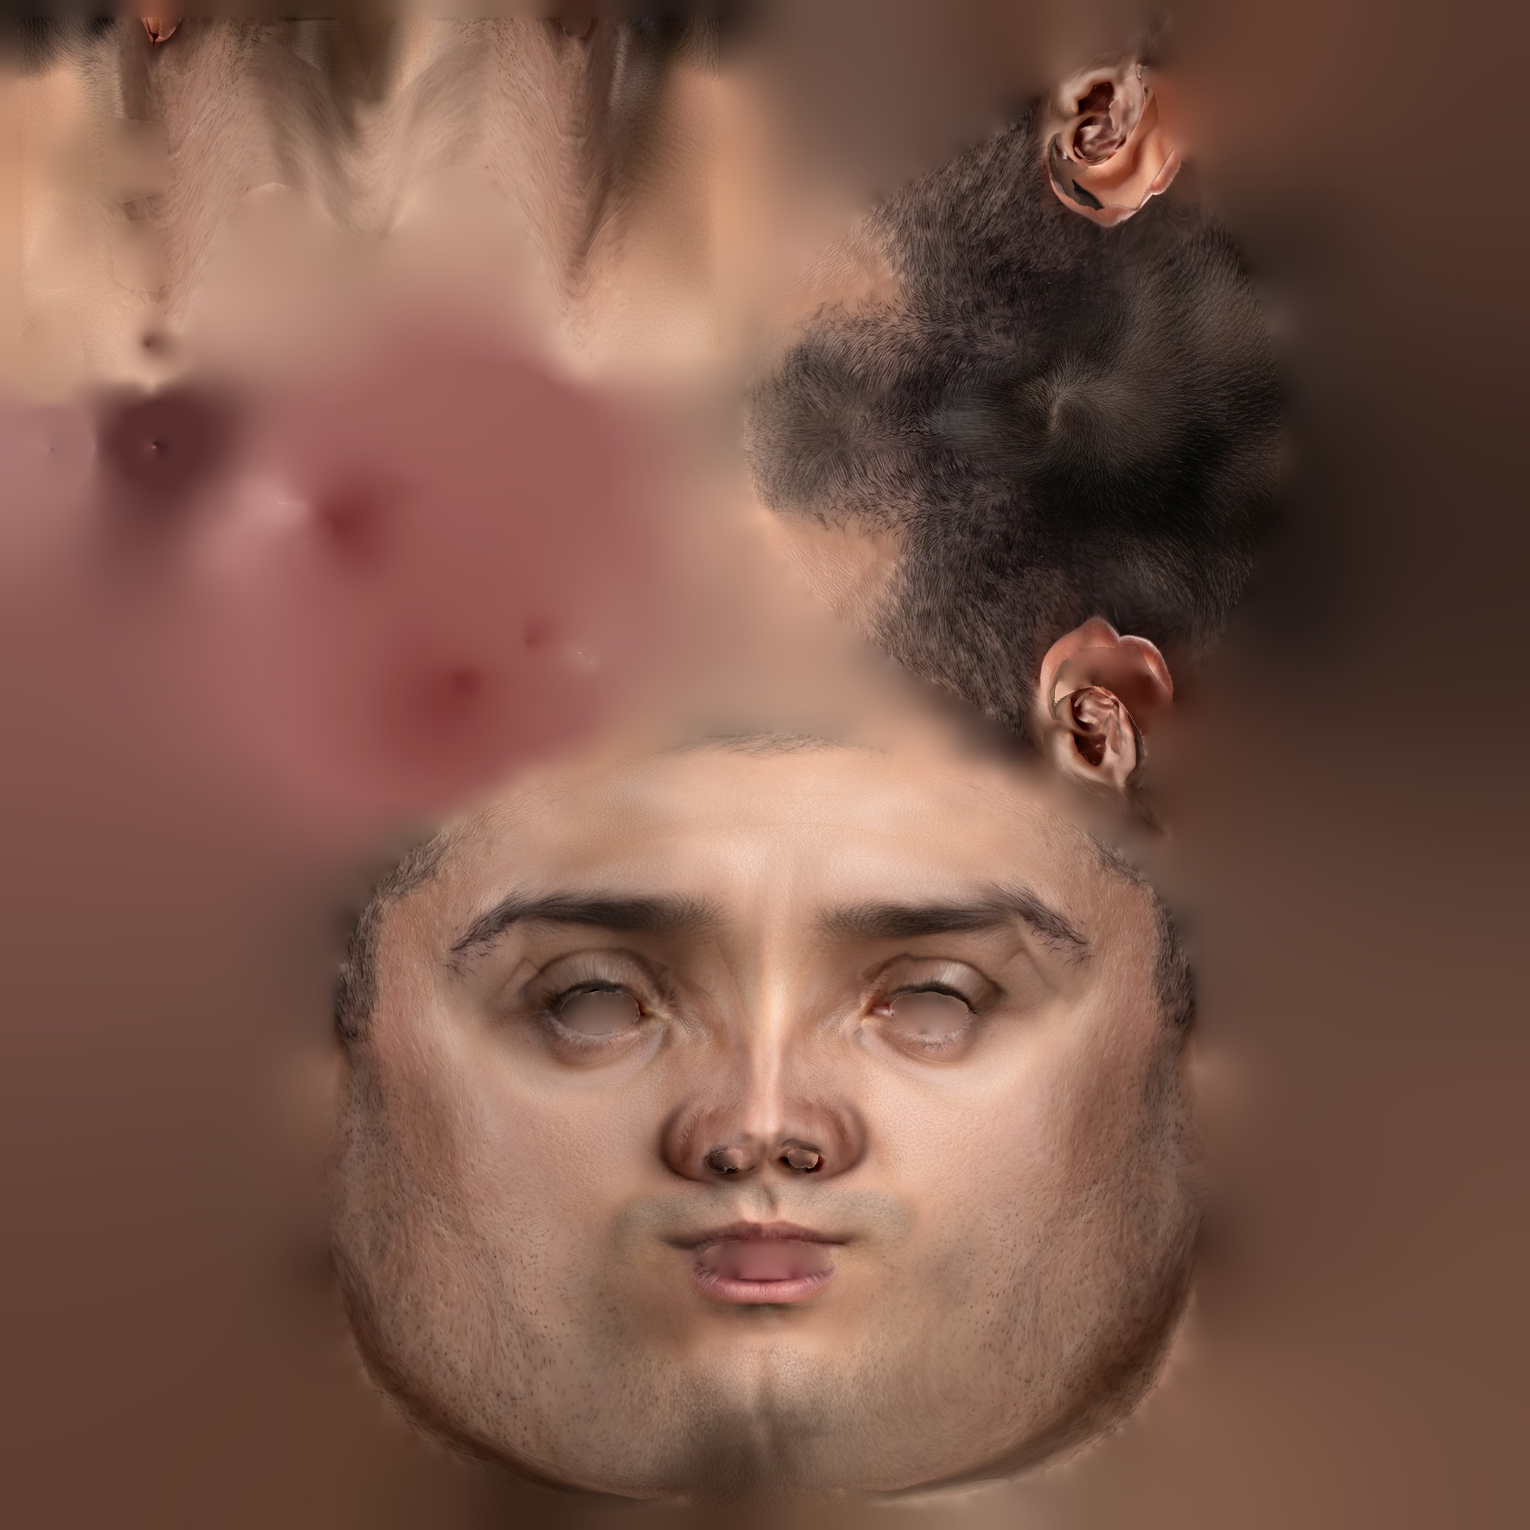
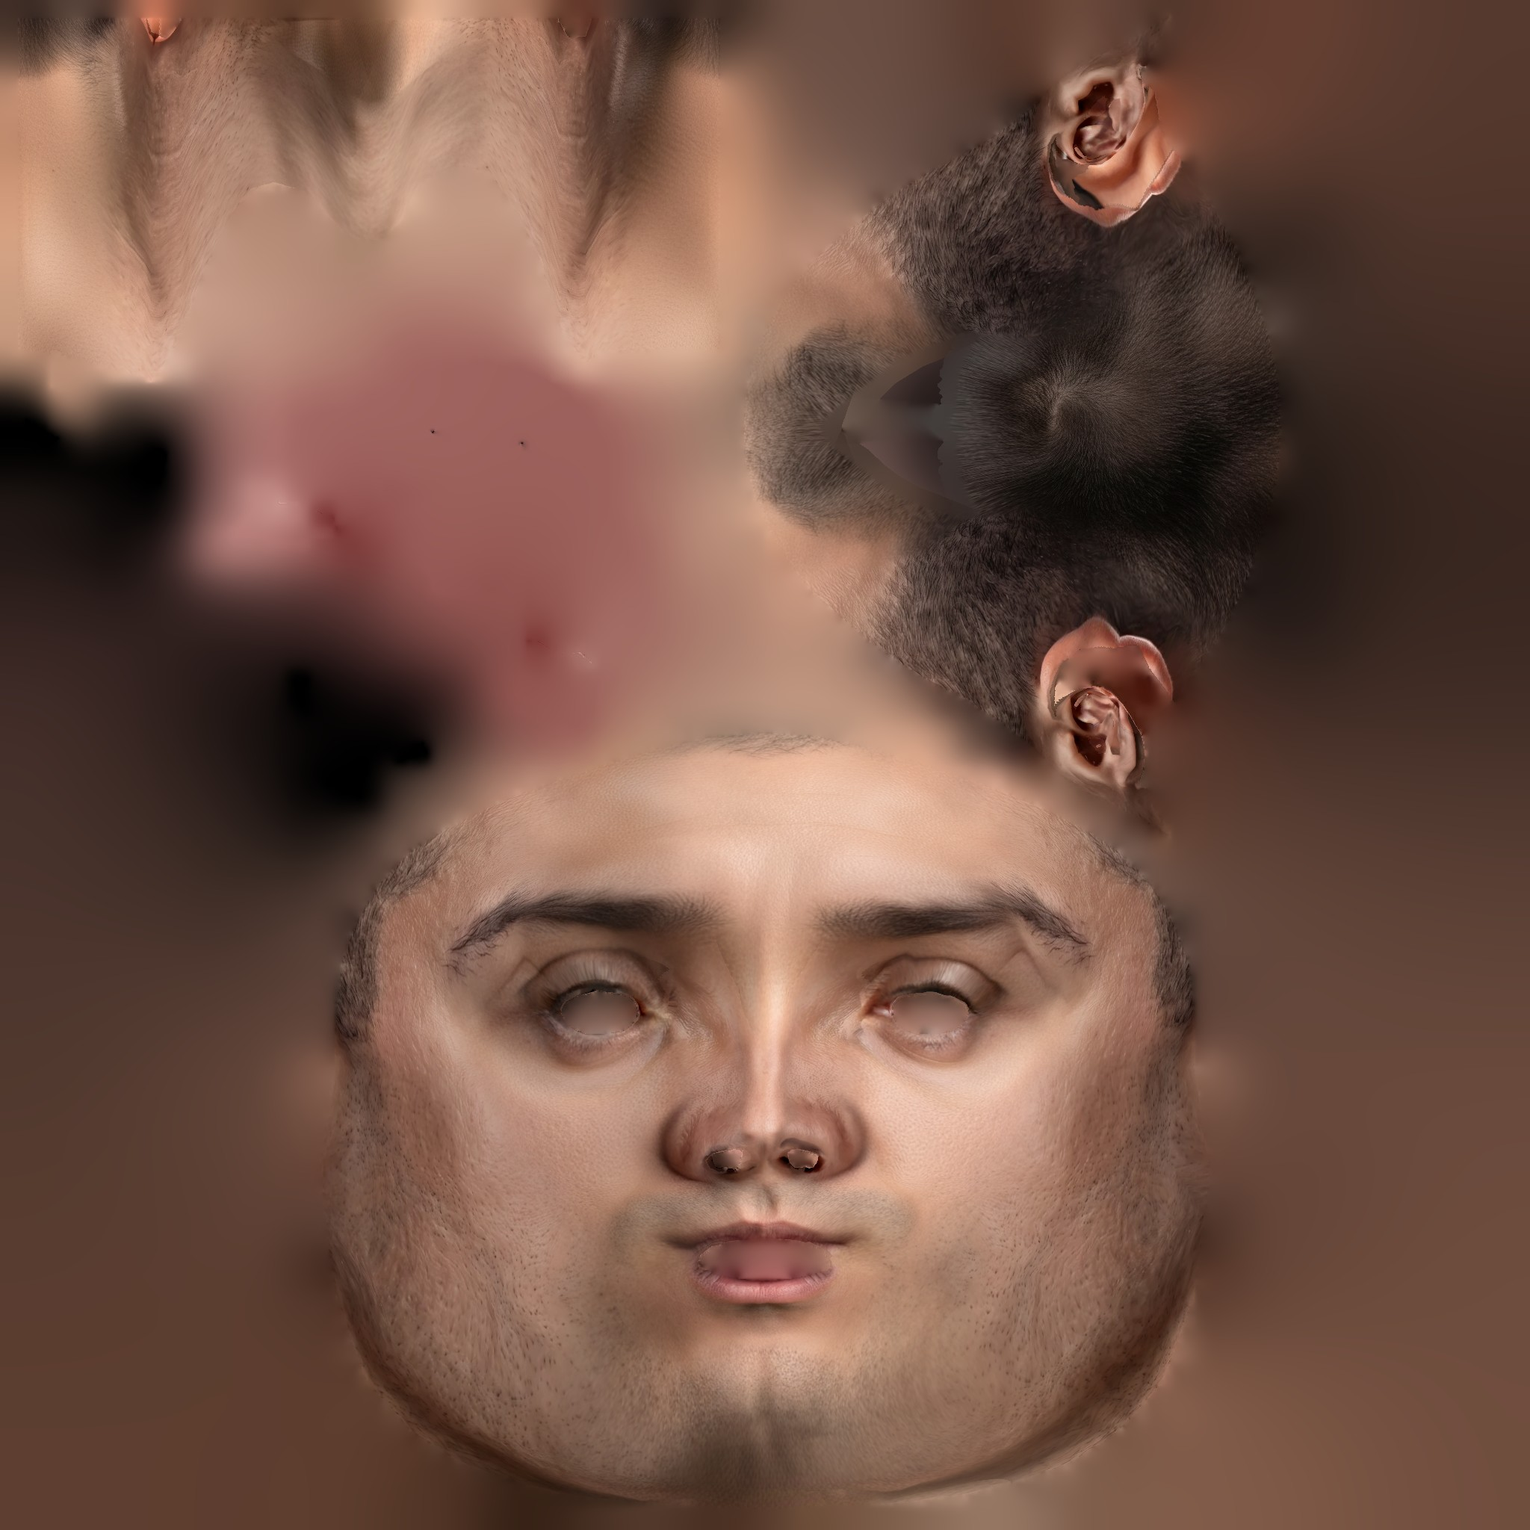
3D head: tongue in the mouth, consistent hair, rebaked skin (unfinished follow-up: three-quarter mouth interior still rough)

diff --git a/src/ui/components/Tract3DView.tsx b/src/ui/components/Tract3DView.tsx
@@ -102,13 +102,13 @@ const PLATE_VS = 'varying vec2 vUv; void main() { vUv = uv; gl_Position = projec
 const PLATE_FS = 'uniform sampler2D map; uniform float uOpacity; varying vec2 vUv; void main() { gl_FragColor = texture2D(map, vUv) * uOpacity; }';
 
 const SHADE_VS = `
-attribute vec3 tone; attribute vec3 field; attribute float lat;
+attribute vec3 tone; attribute vec3 field; attribute float lat; attribute float front;
 uniform float uField;
-varying vec3 vCol; varying vec3 vN; varying vec3 vV; varying vec3 vP; varying float vLat;
+varying vec3 vCol; varying vec3 vN; varying vec3 vV; varying vec3 vP; varying float vLat; varying float vFront;
 void main() {
   vCol = mix(tone, field, uField);
   vec4 mv = modelViewMatrix * vec4(position, 1.0);
-  vN = normalMatrix * normal; vV = -mv.xyz; vP = position; vLat = lat;
+  vN = normalMatrix * normal; vV = -mv.xyz; vP = position; vLat = lat; vFront = front;
   gl_Position = projectionMatrix * mv;
 }`;
 /**
@@ -118,7 +118,7 @@ void main() {
  */
 const WALL_FS = `
 uniform float uDepth; uniform float uField; uniform vec4 uMouth;
-varying vec3 vCol; varying vec3 vN; varying vec3 vV; varying vec3 vP; varying float vLat;
+varying vec3 vCol; varying vec3 vN; varying vec3 vV; varying vec3 vP; varying float vLat; varying float vFront;
 float hash(vec3 p) { p = fract(p * 0.3183099 + 0.1); p *= 17.0; return fract(p.x * p.y * p.z * (p.x + p.y + p.z)); }
 float noise(vec3 x) {
   vec3 i = floor(x), f = fract(x); f = f * f * (3.0 - 2.0 * f);
@@ -126,8 +126,9 @@ float noise(vec3 x) {
              mix(mix(hash(i + vec3(0, 0, 1)), hash(i + vec3(1, 0, 1)), f.x), mix(hash(i + vec3(0, 1, 1)), hash(i + vec3(1, 1, 1)), f.x), f.y), f.z);
 }
 void main() {
-  // (in a whole head its own lips and teeth are the front of the mouth: the airway's walls begin behind the teeth)
-  if (uMouth.z > 0.5 && vP.x > uMouth.w) discard;
+  // (in a whole head its own lips and teeth are the front of the mouth: the airway's walls of the lips and the
+  // incisors are not drawn, nor anything in front of its teeth; the tongue and the palate are)
+  if (uMouth.z > 0.5 && (vFront > 0.5 || vP.x > uMouth.w)) discard;
   vec3 n = normalize(vN), v = normalize(vV);
   if (dot(n, v) < 0.0) n = -n;
   float depth = clamp(-vP.z / uDepth, 0.0, 1.0);
@@ -138,8 +139,9 @@ void main() {
   // the light comes in by the cut: what lies deep in the hollow is in the dark
   float shade = mix(1.0, mix(0.13, 0.55, uField), pow(depth, 0.7));
   // (in a whole head it comes in by the mouth only: dark a little way behind the front teeth)
+  // (the tongue's front and the palate behind the teeth catch the light; the throat is dark)
   float behind = clamp((uMouth.x - vP.x) / uMouth.y, 0.0, 1.0);
-  shade = mix(shade, mix(1.0, mix(0.035, 0.4, uField), pow(behind, 0.55)), uMouth.z);
+  shade = mix(shade, mix(1.0, mix(0.03, 0.4, uField), pow(behind, 1.15)), uMouth.z);
   vec3 c = base * wrap * shade;
   // flesh in shadow stays red, never grey
   c += vec3(0.07, 0.01, 0.012) * (1.0 - wrap) * (1.0 - uField) * shade;
@@ -233,13 +235,14 @@ void main() {
   vec3 n = normalize(vN), v = normalize(vV);
   if (dot(n, v) < 0.0) n = -n;
   vec3 L = ${LIGHT};
-  vec3 col = mix(vec3(0.74, 0.73, 0.7), vec3(0.87, 0.83, 0.74), smoothstep(0.04, 0.4, vCrown));
-  col = mix(col, vec3(0.8, 0.7, 0.58), smoothstep(0.62, 1.0, vCrown));
-  float wrap = 0.42 + 0.58 * max(dot(n, L), 0.0);
+  vec3 col = mix(vec3(0.7, 0.7, 0.69), vec3(0.85, 0.8, 0.7), smoothstep(0.04, 0.38, vCrown));
+  col = mix(col, vec3(0.76, 0.66, 0.54), smoothstep(0.6, 1.0, vCrown));
+  float wrap = 0.38 + 0.62 * max(dot(n, L), 0.0);
   float behind = mix(clamp((uFront.x - vP.x) / uFront.y, 0.0, 1.0), 0.55 * clamp(-vP.z / uDepth, 0.0, 1.0), uCut);
-  float shade = mix(1.0, 0.05, pow(behind, 0.85)) * mix(1.0, 0.5, smoothstep(0.5, 1.0, vCrown));
-  vec3 c = col * wrap * shade + vec3(0.03, 0.008, 0.006) * (1.0 - behind);
-  float spec = pow(max(dot(n, normalize(L + v)), 0.0), 70.0) * 0.32 * (1.0 - behind) * (1.0 - vCrown);
+  // (the canines are in the corners' half light, the teeth behind them in the cheeks' dark)
+  float shade = mix(1.0, 0.025, pow(smoothstep(0.0, 0.8, behind), 0.75)) * mix(1.0, 0.45, smoothstep(0.5, 1.0, vCrown));
+  vec3 c = col * wrap * shade + vec3(0.03, 0.008, 0.006) * (1.0 - smoothstep(0.0, 0.5, behind));
+  float spec = pow(max(dot(n, normalize(L + v)), 0.0), 70.0) * 0.32 * (1.0 - smoothstep(0.08, 0.35, behind)) * (1.0 - vCrown);
   gl_FragColor = vec4(c + vec3(spec), 1.0);
 }`;
 
@@ -259,7 +262,7 @@ void main() {
  */
 const HEAD_FS = `
 uniform float uCut; uniform float uGhost;
-uniform vec3 uFlesh; uniform vec4 uEyeL; uniform vec4 uEyeR; uniform vec3 uIris; uniform mat3 normalMatrix;
+uniform vec3 uFlesh; uniform vec4 uEyeL; uniform vec4 uEyeR; uniform vec3 uIris; uniform vec3 uLook; uniform mat3 normalMatrix;
 uniform sampler2D mapScan;
 varying vec3 vN; varying vec3 vV; varying vec3 vC; varying vec3 vF; varying float vKind; varying vec2 vUv;
 void main() {
@@ -275,7 +278,8 @@ void main() {
     // through the mouth only: in its dark); behind the lips, the back of their inner side: mucosa
     float deep = clamp(-vC.z / 6.0, 0.0, 1.0);
     vec3 inside = uFlesh * mix(mix(0.55, 0.16, deep), 0.09, 1.0 - uCut);
-    gl_FragColor = vec4(mix(inside, vec3(0.5, 0.22, 0.21) * wetShade, mouth), 1.0);
+    vec3 wall = mix(vec3(0.15, 0.05, 0.045) * (1.0 - 0.6 * further), vec3(0.42, 0.17, 0.16) * wetShade * mix(1.0, 0.55, further), uCut);
+    gl_FragColor = vec4(mix(inside, wall, mouth), 1.0);
     return;
   }
   vec3 base = texture2D(mapScan, vUv).rgb;
@@ -291,7 +295,14 @@ void main() {
   if (eye > 0.5) {
     vec4 E = vC.z < 0.0 ? uEyeL : uEyeR;
     vec3 e = normalize(vC - E.xyz);
-    vec3 look = normalize(vec3(1.0, -0.09, 0.04 * sign(-vC.z)));
+    // (a man looks at who looks at him: the eyes turn toward the eye of the view, part of the way, sideways no more
+    // than about 26 degrees and up or down a little, and only while it is in front of the face; at rest they look
+    // ahead, a little down and in)
+    vec3 toEye = normalize(uLook - E.xyz);
+    float facing = smoothstep(-0.25, 0.35, toEye.x);
+    float yaw = 0.04 * sign(-vC.z) + clamp(0.55 * atan(toEye.z, toEye.x), -0.45, 0.45) * facing;
+    float pitch = -0.09 + clamp(0.3 * asin(clamp(toEye.y, -1.0, 1.0)), -0.1, 0.1) * facing;
+    vec3 look = normalize(vec3(cos(pitch) * cos(yaw), sin(pitch), cos(pitch) * sin(yaw)));
     float th = acos(clamp(dot(e, look), -1.0, 1.0));
     vec3 a1 = normalize(cross(look, vec3(0.0, 1.0, 0.0))), a2 = cross(a1, look);
     float ang = atan(dot(e, a2), dot(e, a1));
@@ -406,12 +417,12 @@ export default function Tract3DView() {
     for (let j = RING_SIDE - 1; j >= mid; j--) near.push(ringN - 1 - j);
     const count = rays * ringN;
     const posAttr = new THREE.BufferAttribute(meshes.air.positions, 3);
-    const toneCol = new Float32Array(count * 3), fieldCol = new Float32Array(count * 3), lat = new Float32Array(count);
+    const toneCol = new Float32Array(count * 3), fieldCol = new Float32Array(count * 3), lat = new Float32Array(count), frontOf = new Float32Array(count);
     for (let i = 0; i < rays; i++) for (let j = 0; j < RING_SIDE; j++) {
       const a = Math.abs(Math.sin((Math.PI / 2) * (-1 + (2 * j) / (RING_SIDE - 1))));
       lat[i * ringN + j] = a; lat[i * ringN + ringN - 1 - j] = a;
     }
-    const toneAttr = new THREE.BufferAttribute(toneCol, 3), fieldAttr = new THREE.BufferAttribute(fieldCol, 3), latAttr = new THREE.BufferAttribute(lat, 1);
+    const toneAttr = new THREE.BufferAttribute(toneCol, 3), fieldAttr = new THREE.BufferAttribute(fieldCol, 3), latAttr = new THREE.BufferAttribute(lat, 1), frontAttr = new THREE.BufferAttribute(frontOf, 1);
     // (the whole ring gives every point its normal; the two halves share them)
     const ringGeo = new THREE.BufferGeometry();
     ringGeo.setAttribute('position', posAttr);
@@ -424,6 +435,7 @@ export default function Tract3DView() {
       g.setAttribute('tone', toneAttr);
       g.setAttribute('field', fieldAttr);
       g.setAttribute('lat', latAttr);
+      g.setAttribute('front', frontAttr);
       g.setIndex(halfIndex(order));
       return g;
     };
@@ -510,7 +522,7 @@ export default function Tract3DView() {
     const headUniforms = {
       uCut: { value: 1 }, uGhost: { value: 1 },
       // the eyes as balls (middle, how far the front stands from it), and the colour of the iris (the photographs': a dark brown)
-      uEyeL: { value: new THREE.Vector4(4.36, 16.61, -3.15, 2.46) }, uEyeR: { value: new THREE.Vector4(4.52, 16.85, 3.16, 2.44) }, uIris: { value: new THREE.Vector3(0.17, 0.098, 0.058) },
+      uEyeL: { value: new THREE.Vector4(4.36, 16.61, -3.15, 2.46) }, uEyeR: { value: new THREE.Vector4(4.52, 16.85, 3.16, 2.44) }, uIris: { value: new THREE.Vector3(0.17, 0.098, 0.058) }, uLook: { value: new THREE.Vector3(60, 15, 0) },
       uFlesh: { value: new THREE.Vector3(0.47, 0.15, 0.16) }, mapScan: { value: blank as THREE.Texture },
     };
     const headMat = new THREE.ShaderMaterial({ uniforms: headUniforms, vertexShader: HEAD_VS, fragmentShader: HEAD_FS, side: THREE.DoubleSide });
@@ -678,9 +690,9 @@ export default function Tract3DView() {
         (teethMesh.geometry.attributes.position as THREE.BufferAttribute).needsUpdate = true;
         teethMesh.geometry.computeVertexNormals();
         const fx = sc.place(head.teeth.front, 8.5, 0)[0];
-        teethUniforms.uFront.value.set(fx, 3.4 * sc.s);
+        teethUniforms.uFront.value.set(fx, 2.6 * sc.s);
         // (the mouth is dark from the head's own front teeth back, and the airway's walls begin behind them)
-        wallUniforms.uMouth.value.x = fx; wallUniforms.uMouth.value.w = fx - 0.9 * sc.s;
+        wallUniforms.uMouth.value.x = fx; wallUniforms.uMouth.value.w = fx + 0.1 * sc.s;
       }
       if (head) {
         placeHead(head, sc, headPos, lips ? lipMove(sc, lips) : undefined);
@@ -706,18 +718,23 @@ export default function Tract3DView() {
       ringGeo.computeVertexNormals();
       sc = headScene(g, p.anatomy, p.articulators);
       wallUniforms.uDepth.value = 2.3 * g.scale;
-      wallUniforms.uMouth.value.y = 2.8 * g.scale;
+      wallUniforms.uMouth.value.y = 3.8 * g.scale;
       if (!head?.teeth) { wallUniforms.uMouth.value.x = g.landmarks.upperEdge[0] + 0.15 * g.scale; wallUniforms.uMouth.value.w = 1e3; }
       // every wall in the colour of what it is, the two running into one another where they meet at the side
       for (let i = 0; i < rays; i++) {
         const h = g.hits[Math.min(i, g.lastRay)];
         const up = tones[h.upId ?? 'none'], low = tones[h.lowId ?? 'none'];
+        // (the walls that are the lips and the incisors: a whole head has its own)
+        const lipOrTooth = (id: SolidId | undefined | null) => id === 'upperLip' || id === 'lowerLip' || id === 'upperIncisor' || id === 'lowerIncisor';
+        const fu = lipOrTooth(h.upId) ? 1 : 0, fl = lipOrTooth(h.lowId) ? 1 : 0;
         for (let j = 0; j < ringN; j++) {
           const q = i * ringN + j, own = j < RING_SIDE ? up : low, other = j < RING_SIDE ? low : up, m = 0.5 * lat[q] * lat[q];
           for (let c = 0; c < 3; c++) toneCol[3 * q + c] = own[c] + (other[c] - own[c]) * m;
+          frontOf[q] = j < RING_SIDE ? fu : fl;
         }
       }
       toneAttr.needsUpdate = true;
+      frontAttr.needsUpdate = true;
       let n = 0;
       // (the teeth come arch by arch, from the middle back, a pair at each place: in a whole head the mouth
       // shows the front ones only, the incisors and the canines; those behind them are in the cheeks' dark)
@@ -863,6 +880,8 @@ export default function Tract3DView() {
       teeth.visible = !ownTeeth;
       for (const m of gums) m.visible = !ownTeeth;
       headUniforms.uCut.value = o.cut ? 1 : 0;
+      // (where the eye of the view is, in the head's own centimetres: the eyes look toward it)
+      headUniforms.uLook.value.copy(camera.position).multiplyScalar(1 / (sc?.s || 1));
       plate.visible = plate.visible && true;
       renderer.render(scene, camera);
       // labels, the later ones hidden where they would cover an earlier one or a control

diff --git a/src/ui/three/fullHead.ts b/src/ui/three/fullHead.ts
@@ -276,6 +276,8 @@ const INSIDE: [string, [number, number], [number, number], number][] = [
 const SIDE = 9.6;
 /** Where the lips meet at rest, and the corner of the mouth (the painting's cm). */
 const LIPS_MEET = 8.06, CORNER = 6.9;
+/** How far forward the lips stand at their middle (the painting's cm): where the lips meet, less a little. */
+const LIPS_FRONT = 8.6;
 /** The neck: where it is cut, where it becomes a plain column under the jaw, its half width, and how many rings it has from the scan's edge down. */
 const NECK_CUT = -3.45, NECK_TOP = 2.6, NECK_HALF = 5.7, RINGS_JOIN = 6, RINGS_NECK = 5;
 /** Where the neck's skin is in the scan's picture (u0, v0, u1, v1: a part of it the scan does not use; v down, as glTF has it). */
@@ -490,9 +492,20 @@ export function buildHead(scan: Scan, outline: ReturnType<typeof paintingOutline
     const q = warp(P[3 * i], P[3 * i + 1]);
     return q[0] < CORNER - 1.2 && q[1] > LIPS_MEET - 2.4 && q[1] < LIPS_MEET + 3.2 && Math.abs(P[3 * i + 2]) * SIDE < 3.4;
   };
+  // (and the lips' inner side more than a few millimetres behind their front: bent onto the painting it runs back
+  // into the mouth in long spikes, which seen through an open mouth would stand there like a row of teeth. The
+  // lips' front follows the curve of the mouth back to its corners)
+  const flange = (t: number) => {
+    const a = idx0[t], b = idx0[t + 1], c = idx0[t + 2];
+    if (a >= scan.skin || b >= scan.skin || c >= scan.skin) return false;
+    const qa = warp(P[3 * a], P[3 * a + 1]), qb = warp(P[3 * b], P[3 * b + 1]), qc = warp(P[3 * c], P[3 * c + 1]);
+    const x = (qa[0] + qb[0] + qc[0]) / 3, y = (qa[1] + qb[1] + qc[1]) / 3, z = ((P[3 * a + 2] + P[3 * b + 2] + P[3 * c + 2]) / 3) * SIDE;
+    if (Math.abs(z) > 3.1 || y < LIPS_MEET - 1.2 || y > LIPS_MEET + 1.5) return false;
+    return x < LIPS_FRONT - 0.25 * z * z - 0.75;
+  };
   const kept: number[] = [];
   for (let t = 0; t < idx0.length; t += 3) {
-    if (pocket(idx0[t]) || (deep(idx0[t]) && deep(idx0[t + 1]) && deep(idx0[t + 2]))) continue;
+    if (pocket(idx0[t]) || (deep(idx0[t]) && deep(idx0[t + 1]) && deep(idx0[t + 2])) || flange(t)) continue;
     kept.push(idx0[t], idx0[t + 1], idx0[t + 2]);
   }
 
@@ -735,11 +748,12 @@ function buildTeeth(src: NonNullable<Scan['teeth']>, warp: (x: number, y: number
     canon[3 * i] = q[0]; canon[3 * i + 1] = q[1]; canon[3 * i + 2] = z * SIDE;
     crown[i] = crown[m + i] = y1 > y0 ? (y - y0) / (y1 - y0) : 0;
     front = Math.max(front, q[0]);
-    // the lower crown under it, turned over onto the same edge: the front ones 2 mm over the upper edges and
-    // 2.5 mm behind them, the arch a little narrower there (the scan's units are 10 cm)
+    // the lower crown under it, turned over onto the same edge and a little shorter: inside the upper arch (the
+    // front ones 5 mm behind the upper edges, the arch narrower) and a little below it, behind the lower lip's
+    // inner side, which keeps them out of sight unless the mouth is well open (the scan's units are 10 cm)
     const a = ease((sx.get(r)! / nx.get(r)! - 0.42) / 0.08);
-    const ql = warp(x - 0.025 * a - 0.003, 2 * y0 - y + 0.02 * a);
-    canon[3 * (m + i)] = ql[0]; canon[3 * (m + i) + 1] = ql[1]; canon[3 * (m + i) + 2] = z * (1 - 0.05 * a) * SIDE;
+    const ql = warp(x - 0.035 * a - 0.015, y0 - 0.85 * (y - y0) - 0.006 - 0.004 * a);
+    canon[3 * (m + i)] = ql[0]; canon[3 * (m + i) + 1] = ql[1]; canon[3 * (m + i) + 2] = z * (0.92 - 0.04 * a) * SIDE;
     lower[m + i] = 1;
   }
   // (the lower row is a mirror image: its triangles turn the other way)

diff --git a/scripts/head3d-bake.py b/scripts/head3d-bake.py
@@ -473,6 +473,10 @@ def bake(mesh, views, S, log, debug=None):
             t = np.clip((N[..., 1] - a) / (b_ - a), 0, 1)
             w = w * t * t * (3 - 2 * t)
         # (or to what lies below a height: a view from below has the eyes looking up, and is kept to the chin)
+        # (or give way on the top of the head to the views that have hair there: the side photograph's hairline
+        # recedes further than the others', and the head's hair should be one all round)
+        if v.get('yield_top'):
+            w = w * (1 - v['yield_top'] * np.clip((N[..., 1] - 0.3) / 0.4, 0, 1))
         if v.get('max_y') is not None:
             w = w * np.clip((v['max_y'] - P[..., 1]) / 0.6, 0, 1)
         w[~cover] = 0
@@ -547,7 +551,38 @@ def borrow_detail(out, wmax, islands, cover, S, log, seen=0.22, size=None):
             log(f'  grain borrowed for {need.sum()} texels from ({x}, {y}), colour off by {best:.3f}')
     return res
 
-def finish(b, S, log=print):
+def match_seam(out, mesh, cover, islands, S, log, reach=0.06):
+    """The neck is grown from the scan's edge under the jaw, and has its own island in the texture: along that
+    edge the two islands meet, each with the colour its own photographs gave it. The neck's colour is brought to
+    the jaw's along the edge, less and less down the neck."""
+    lo = gauss_masked(out, cover.astype(np.float32), S / 150, islands)
+    uv, same = mesh.uv, mesh.same
+    neck = (uv[:, 0] < 0.475) & (uv[:, 1] < 0.26) & (mesh.kind < 0.5)
+    pairs = [(i, same[i]) for i in np.nonzero(neck & (uv[:, 1] < 0.0125 + 1e-4))[0] if same[i] != i and not neck[same[i]]]
+    if len(pairs) < 8:
+        return out
+    def at(p):
+        x, y = p[0] * S - 0.5, p[1] * S - 0.5
+        return cv2.getRectSubPix(lo.astype(np.float32), (1, 1), (float(x), float(y)))[0, 0]
+    us = np.array([uv[i, 0] for i, _ in pairs])
+    d = np.array([at(uv[r]) - at(uv[i]) for i, r in pairs])
+    o = np.argsort(us); us, d = us[o], d[o]
+    # (a little smoothing along the edge)
+    k = np.ones(5) / 5
+    d = np.stack([np.convolve(np.pad(d[:, c], 2, mode='edge'), k, mode='valid') for c in range(3)], -1)
+    ys, xs = np.nonzero(cover)
+    sel = (xs / S < 0.475) & (ys / S < 0.26)
+    ys, xs = ys[sel], xs[sel]
+    u, v = (xs + 0.5) / S, (ys + 0.5) / S
+    corr = np.stack([np.interp(u, us, d[:, c]) for c in range(3)], -1)
+    fall = np.clip(1 - (v - 0.0125) / reach, 0, 1) ** 1.5
+    out = out.copy()
+    out[ys, xs] += corr * fall[:, None]
+    log(f'  neck matched to the jaw along {len(pairs)} points (mean shift {np.abs(d).mean():.3f})')
+    return out
+
+
+def finish(b, S, log=print, mesh=None):
     """Fills what no photograph saw (from round it, in its own island), makes the inside of the mouth dark and
     wet, and runs every island's colours on past its edge (so that no seam shows when the picture is filtered)."""
     out, have, cover = b['color'].copy(), b['have'], b['cover']
@@ -559,6 +594,8 @@ def finish(b, S, log=print):
         f = push_pull(np.where(m[..., None], out, 0), w)
         hole = m & ~have
         out[hole] = f[hole]
+    if mesh is not None:
+        out = match_seam(out, mesh, cover, b['islands'], S, log)
     out = borrow_detail(out, np.where(have, b['wmax'], 0), b['islands'], cover, S, log)
     # the inside of the mouth: the pocket behind the lips is dark, the lips' own inner side darkening into it
     x = np.where(cover, P[..., 0], 99)
@@ -650,9 +687,9 @@ def main():
         if c.get('crop'):
             y0, y1 = c['crop']
             mask[:y0] = 0; mask[y1:] = 0
-        views.append(dict(name=c['name'], R=R, warp=warp, photo=photo, mask=mask.astype(np.float32), trust=c.get('trust', 1.0), min_cos=c.get('min_cos', 0.08), facing_y=c.get('facing_y'), max_y=c.get('max_y')))
+        views.append(dict(name=c['name'], R=R, warp=warp, photo=photo, mask=mask.astype(np.float32), trust=c.get('trust', 1.0), min_cos=c.get('min_cos', 0.08), facing_y=c.get('facing_y'), max_y=c.get('max_y'), yield_top=c.get('yield_top')))
     b = bake(mesh, views, S, log, debug)
-    tex = finish(b, S, log)
+    tex = finish(b, S, log, mesh)
     Image.fromarray((tex * 255 + 0.5).astype(np.uint8)).save(out_path, quality=90, optimize=True, progressive=True)
     log(f'wrote {out_path} ({os.path.getsize(out_path) / 1e6:.2f} MB)')
     if debug:
